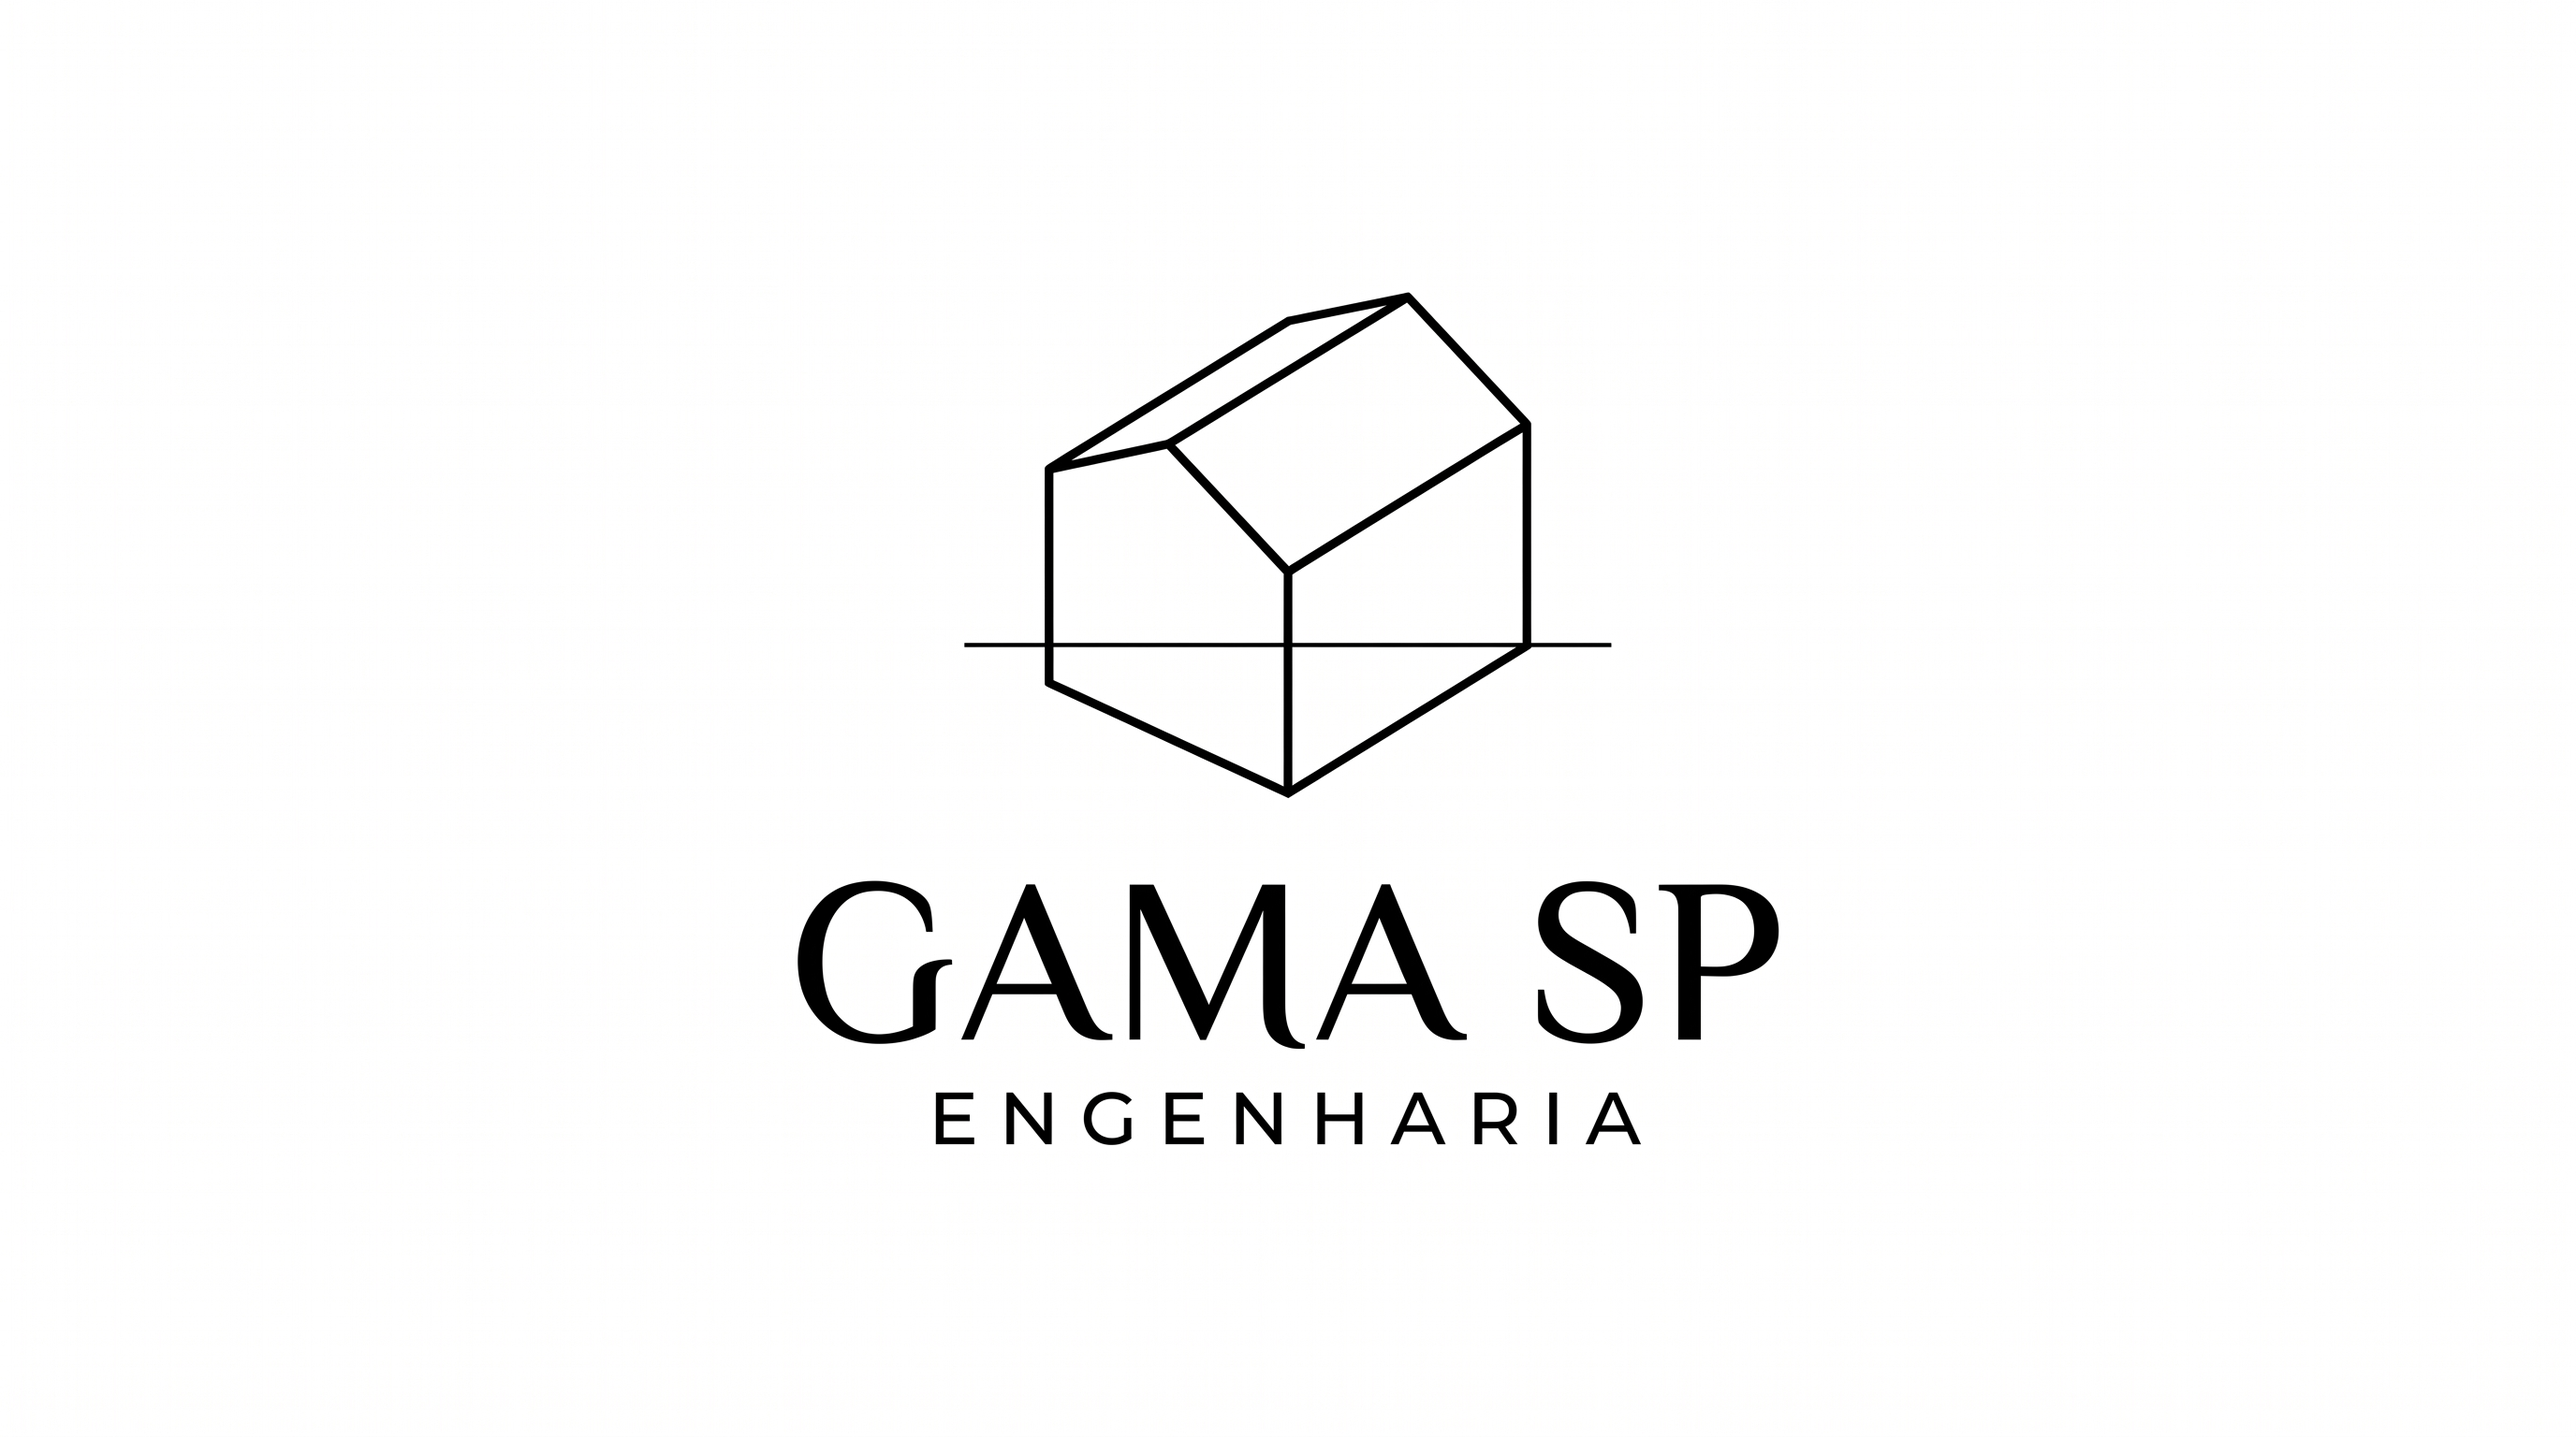
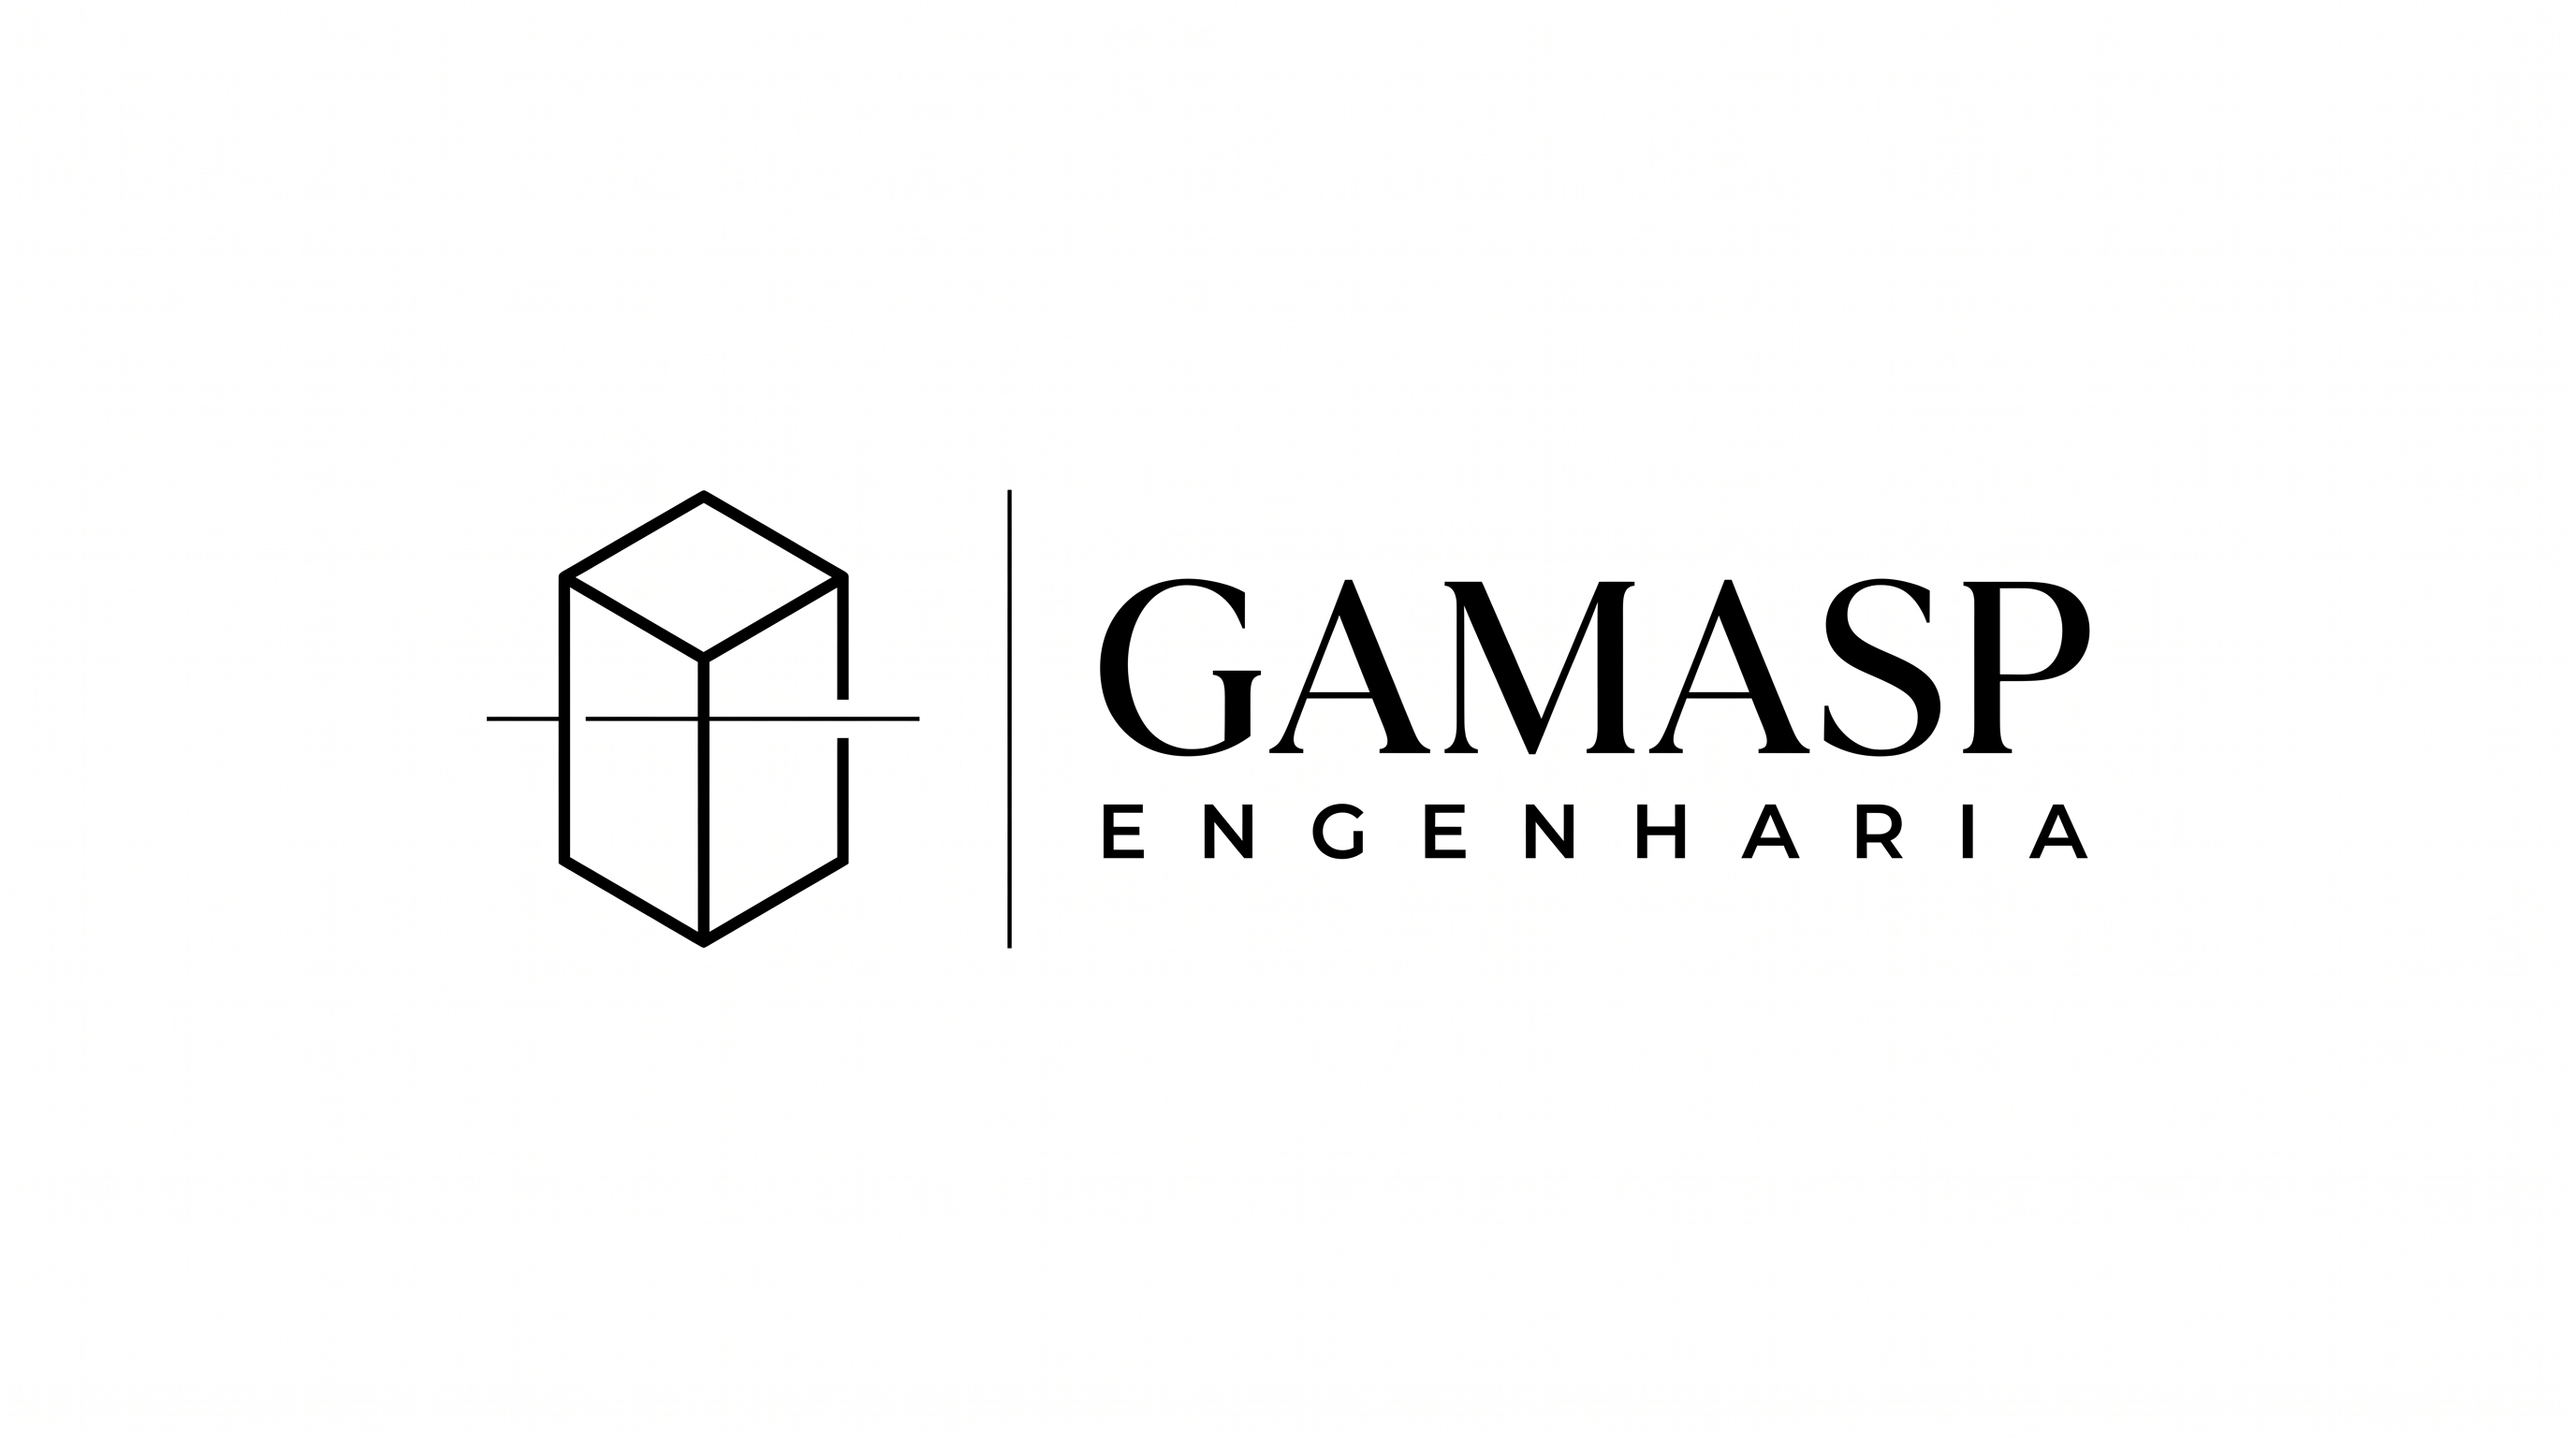
Corrige o nome da empresa: GAMASP, não "Gama SP"
O cliente apontou que a marca é GAMASP, uma palavra só. Eu havia escrito
"Gama SP" separado — o domínio, o e-mail e o Facebook sempre usaram
"gamasp", o texto do site é que estava errado.

27 ocorrências em 10 arquivos: logotipo do cabeçalho e do rodapé, title,
meta description, Open Graph, schema.org, aria-labels, razão social,
copyright, depoimento, título de seção e o nome do remetente do e-mail.

Duas delas estavam codificadas em URL dentro do link do WhatsApp
(Gama%20SP%20Engenharia) e escapariam de uma busca por texto simples —
eram justamente a mensagem que abre no aplicativo do cliente.

Regera também marca-gamasp-master.png, que trazia "GAMA SP ENGENHARIA".
O novo mestre acompanha a marca em SVG que está no site: volume
isométrico com linha de nível, GAMASP em serifa e ENGENHARIA espaçada.

Verificado na pasta publicada: 4/4 páginas em 200 e zero ocorrências do
nome separado, incluindo a versão codificada do link do WhatsApp.

diff --git a/GMProject/GamaspEngenharia/Content/gamasp/gamasp.css b/GMProject/GamaspEngenharia/Content/gamasp/gamasp.css
@@ -1,5 +1,5 @@
 /* ==========================================================================
-   GAMA SP ENGENHARIA — Design System
+   GAMASP ENGENHARIA — Design System
    Paleta suave: marfim quente + grafite macio + bronze
    ========================================================================== */
 

diff --git a/GMProject/GamaspEngenharia/Scripts/gamasp/gamasp.js b/GMProject/GamaspEngenharia/Scripts/gamasp/gamasp.js
@@ -1,5 +1,5 @@
 /* =============================================================
-   GAMA SP ENGENHARIA — interações do site
+   GAMASP ENGENHARIA — interações do site
    Sem dependências externas.
    ============================================================= */
 (function () {

diff --git a/GMProject/GamaspEngenharia/Controllers/HomeController.cs b/GMProject/GamaspEngenharia/Controllers/HomeController.cs
@@ -95,7 +95,7 @@ namespace GamaspEngenharia.Controllers
             }
 
             var r = new StringBuilder();
-            r.AppendLine("DIAGNOSTICO DE ENVIO — Gama SP Engenharia");
+            r.AppendLine("DIAGNOSTICO DE ENVIO — Gamasp Engenharia");
             r.AppendLine("gerado em " + DateTime.Now.ToString("dd/MM/yyyy HH:mm:ss"));
             r.AppendLine(new string('=', 56));
             r.AppendLine();
@@ -280,7 +280,7 @@ namespace GamaspEngenharia.Controllers
             var destino = Cfg("ContatoDestino", "comercial@gamaspengenharia.com.br");
             var copia = Cfg("ContatoCopia", string.Empty);
             var remetente = Cfg("ContatoRemetente", "uodota@gmail.com");
-            var remetenteNome = Cfg("ContatoRemetenteNome", "Site Gama SP Engenharia");
+            var remetenteNome = Cfg("ContatoRemetenteNome", "Site Gamasp Engenharia");
             var senha = SenhaSmtp();
 
             if (string.IsNullOrWhiteSpace(senha))
